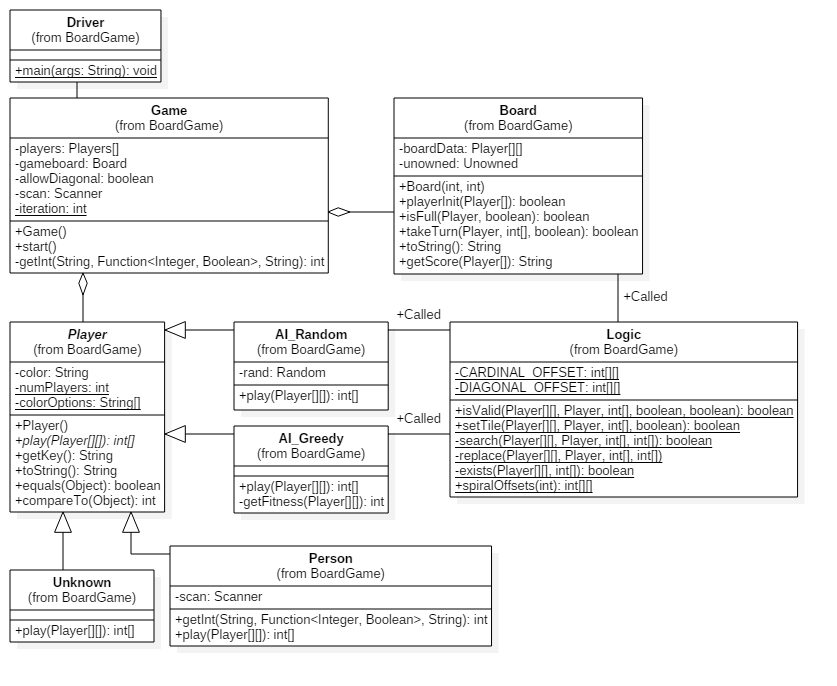
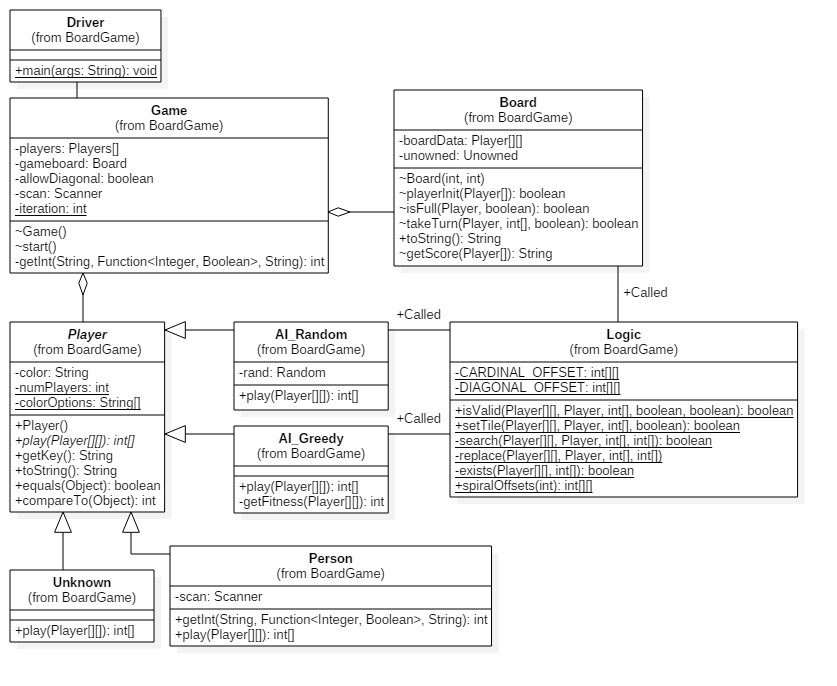
Restrict visibility to package level

Changed region(s): [[0.4659, 0.1224, 0.7766, 0.398], [0.7455, 0.398, 0.8076, 0.4592]]

diff --git a/src/com/shoemate/Board.java b/src/com/shoemate/Board.java
@@ -7,11 +7,11 @@ import java.util.HashMap;
 import java.util.Iterator;
 import java.util.Map;
 
-public class Board {
+class Board {
     private Player[][] boardData;
     private static Unowned unowned = new Unowned();
 
-    public Board(int width, int height) {
+    Board(int width, int height) {
         // initialize with all tiles unowned
         Player[][] temp = new Player[width][height];
         for (int i = 0; i < width; i++) {
@@ -23,7 +23,7 @@ public class Board {
     }
 
     // place starting pieces at center of board
-    public boolean playerInit(Player[] players) {
+    boolean playerInit(Player[] players) {
 
         // If there is an attempt to index outside of the board, raise an alert
         try {
@@ -46,7 +46,7 @@ public class Board {
     }
 
     // Check if player can place tiles
-    public boolean isFull(Player player, boolean allowDiagonal) {
+    boolean isFull(Player player, boolean allowDiagonal) {
         for (int i=0; i < boardData.length; i++) {
             for (int j=0; j < boardData[0].length; j++) {
                 if (Logic.isValid(boardData, player, new int[] {i, j}, allowDiagonal, false)) {
@@ -57,7 +57,7 @@ public class Board {
         return true;
     }
 
-    public boolean takeTurn(Player player, int[] tile, boolean allowDiagonal) {
+    boolean takeTurn(Player player, int[] tile, boolean allowDiagonal) {
         // If game rules are not violated, then place the tile
         if (Logic.setTile(boardData, player, tile, allowDiagonal)) {
             System.out.println("Success: " + player.toString() + " move at (" + Integer.toString(tile[0])+  ", " + Integer.toString(tile[1]) + ")");
@@ -68,7 +68,7 @@ public class Board {
 
     // Players don't actually have access to edit the gameboard; they may only submit their play
     // Nevertheless, players need to be able to see the board. This gives a readable copy of the game state
-    public Player[][] getView() {
+    Player[][] getView() {
         Player[][] view = new Player[boardData.length][];
         for (int i = 0; i < boardData.length; i++) view[i] = boardData[i].clone();
         return view;
@@ -94,7 +94,7 @@ public class Board {
         return whole.toString();
     }
 
-    public String getScore(Player[] players) {
+    String getScore(Player[] players) {
         // Scoreboard initialization
         HashMap<Player, Integer> scoreboard = new HashMap<>();
         for (Player player : players) {

diff --git a/src/com/shoemate/Game.java b/src/com/shoemate/Game.java
@@ -10,7 +10,7 @@ import java.util.InputMismatchException;
 import java.util.Scanner;
 import java.util.function.Function;
 
-public class Game {
+class Game {
 
     private Scanner scan = new Scanner(System.in);
 
@@ -20,7 +20,7 @@ public class Game {
     private Board gameboard;
     private boolean allowDiagonal;
 
-    public Game() {
+    Game() {
         // Handle user preferences
         allowDiagonal = getInt("Game Mode\n 1. Standard\n 2. Diagonal\nSelection: ",
                 (a) -> a==1 || a==2, "Please enter a menu option: {1, 2}") == 2;
@@ -71,7 +71,7 @@ public class Game {
         }
     }
 
-    public void start() {
+    void start() {
         Player currentPlayer = players[0];
 
         do {

diff --git a/src/com/shoemate/Logic.java b/src/com/shoemate/Logic.java
@@ -112,7 +112,7 @@ public class Logic {
 
     // Helper function to determine initial positioning of player tokens
     // Allows game init to handle 3+ players gracefully
-    public static int[][] spiralOffsets(int length) {
+    static int[][] spiralOffsets(int length) {
         int[][] offsets = new int[length][2];
 
         int elem = 0;

diff --git a/src/com/shoemate/players/Player.java b/src/com/shoemate/players/Player.java
@@ -5,7 +5,7 @@ public abstract class Player implements Comparable {
     static private String[] colorOptions = new String[] {"_unowned", "Black", "White", "Orange", "Green", "Yellow", "Purple", "Red", "Taupe"};
     private String color;
 
-    public Player() {
+    Player() {
         color = colorOptions[numPlayers++];
     }
 
